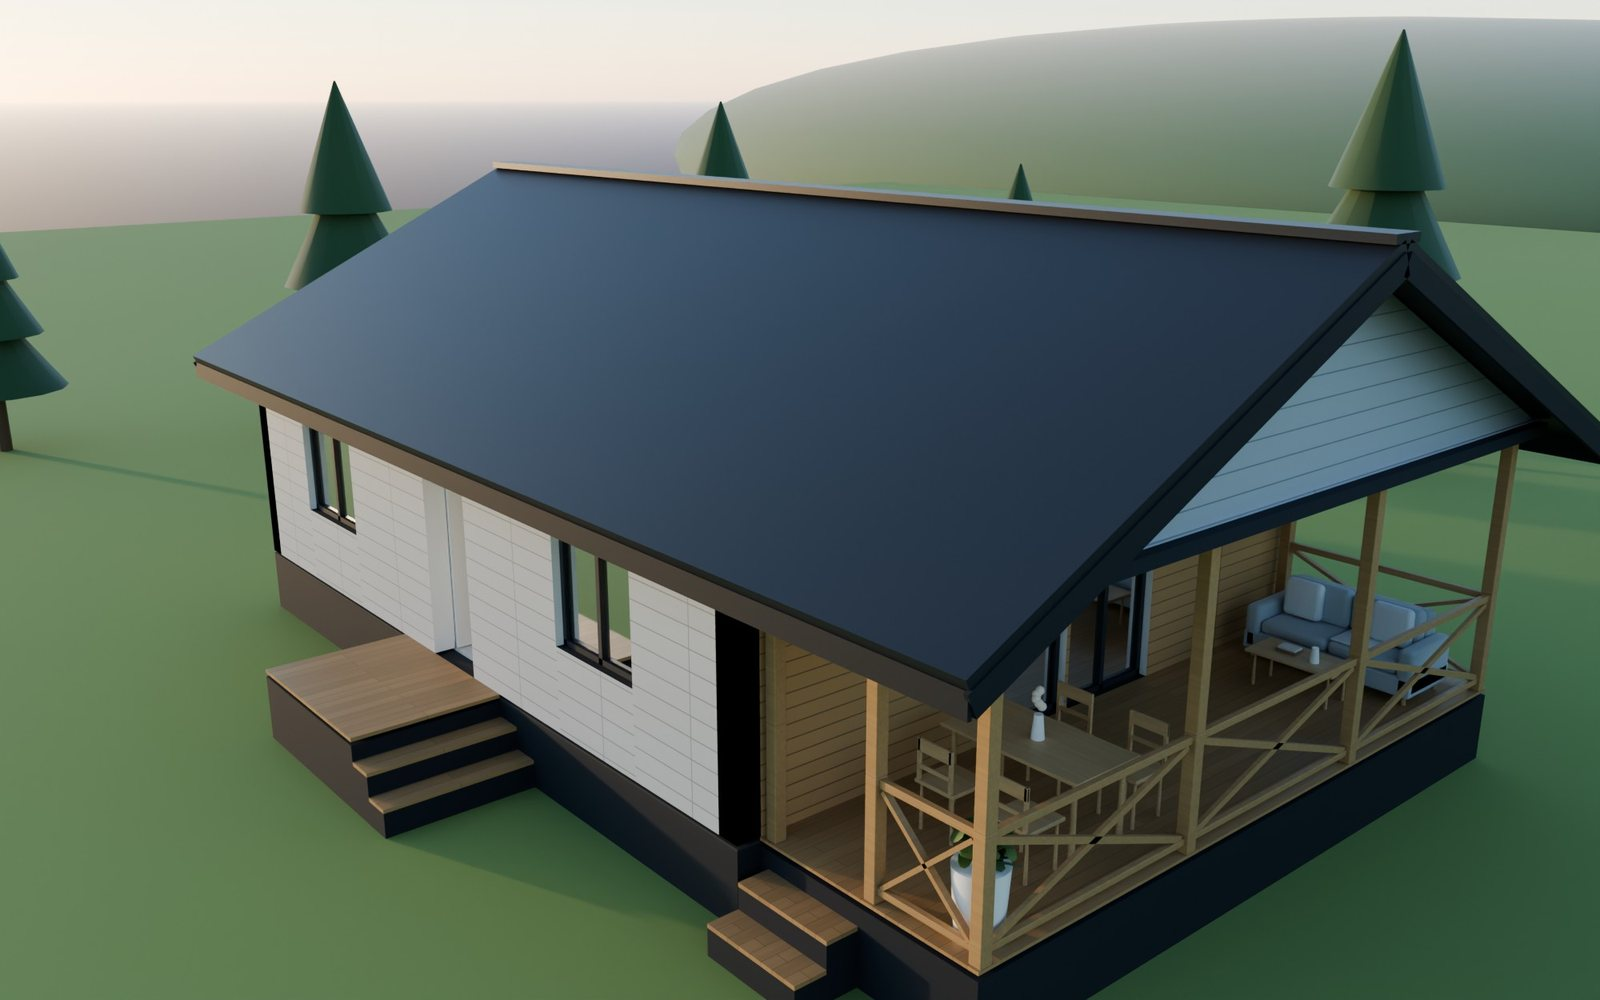
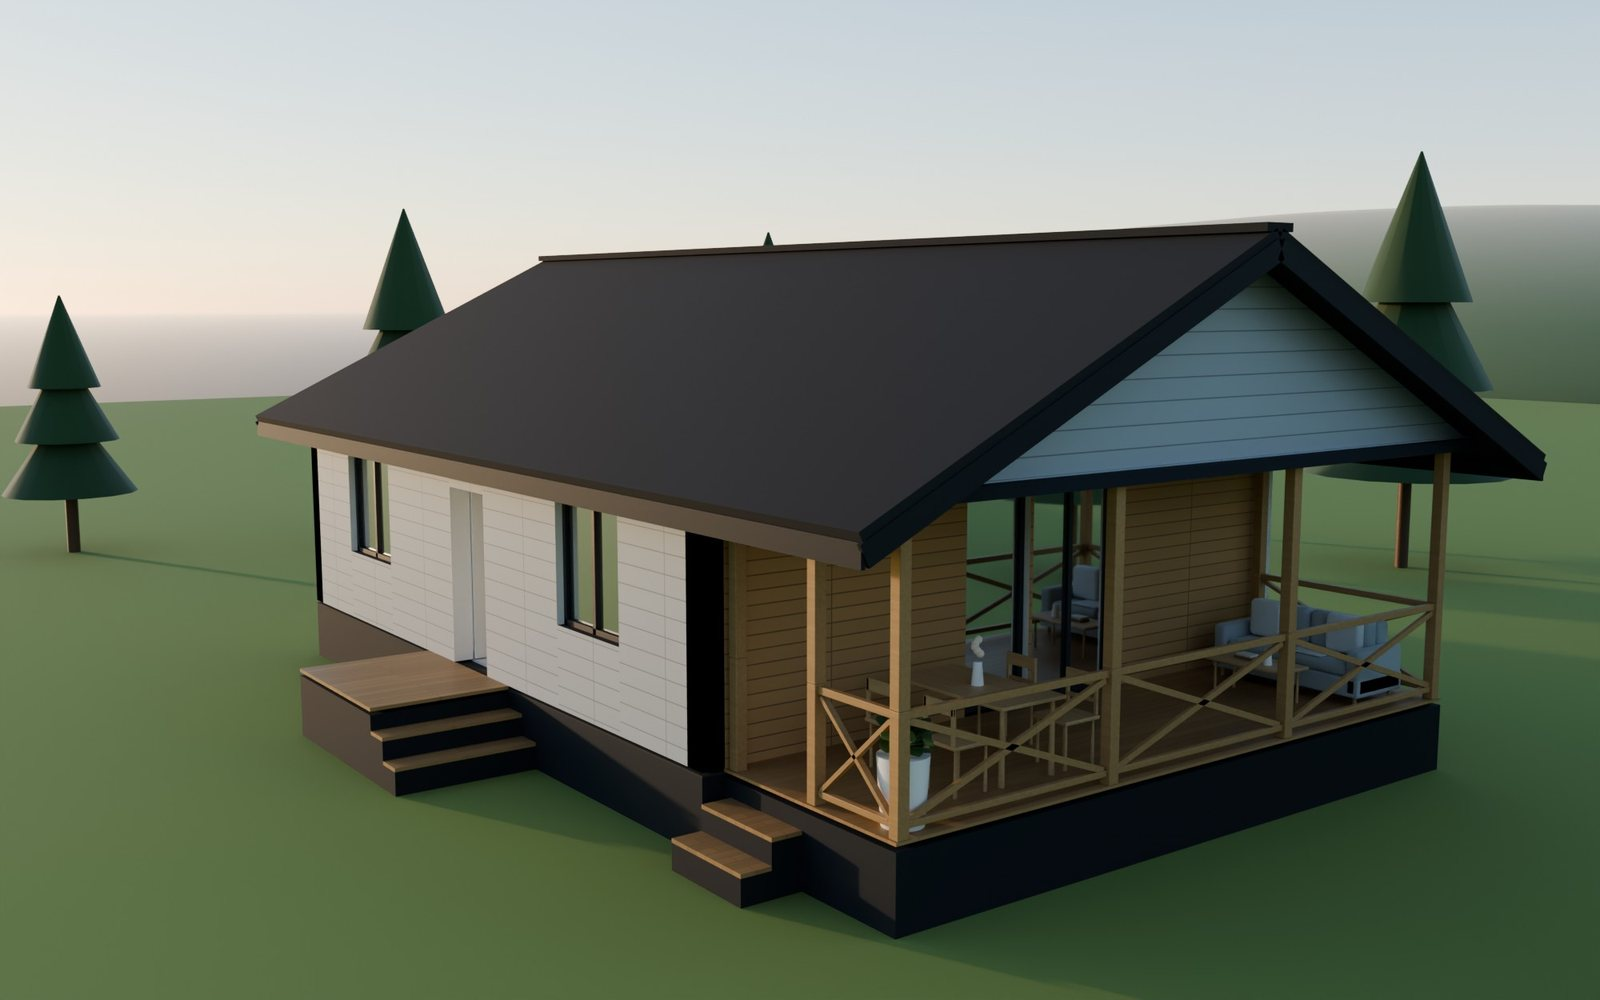
feat(site): финальные фасады и прозрачные кадры обхода дома, вариант Б листает WebP-кадры, заметки о проверке

diff --git a/design/v3-plan.md b/design/v3-plan.md
@@ -40,3 +40,9 @@
 - Рендеры подписаны как 3D-визуализация. Фото интерьера после чистки от лесов и мусора подписаны «фото после ретуши».
 - На телефоне: нижняя панель «Позвонить» и «Написать», форма во всю ширину, картинки с `srcset`.
 - Форма та же: Formspree, имя, телефон с маской, согласие с ссылкой на политику.
+
+## Проверка (22.10.2026)
+
+Снимки headless Chrome из командной строки: ширина 1440 (окно 12 000 px, временная копия страницы с фиксированной высотой первого экрана) и 500 (узкая раскладка, нижняя панель «Позвонить» и «Рассчитать дом»). Проверено на обоих вариантах: первый экран, галерея и видео, переключатель фасадов, стили интерьера, список «что входит», шаги, вопросы, форма, подвал. Все картинки, на которые ссылаются страницы, существуют; `shared.js` проходит `node --check`.
+
+Не проверено автоматически: поворот дома при прокрутке в варианте Б (кадры листаются скриптом по положению прокрутки, в headless-снимке виден только первый кадр), плеер ВКонтакте после клика, реальная отправка формы в Formspree, загрузка шрифтов Google при блокировке. Смотреть глазами после выбора варианта.
